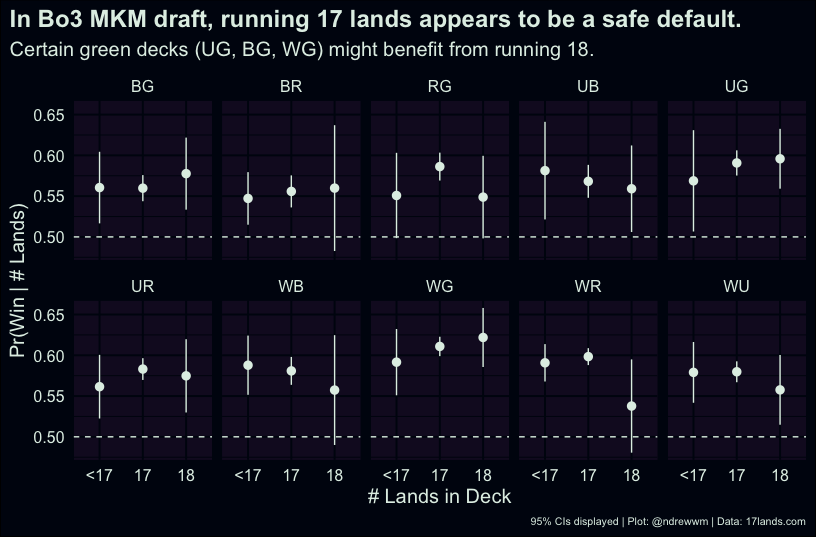
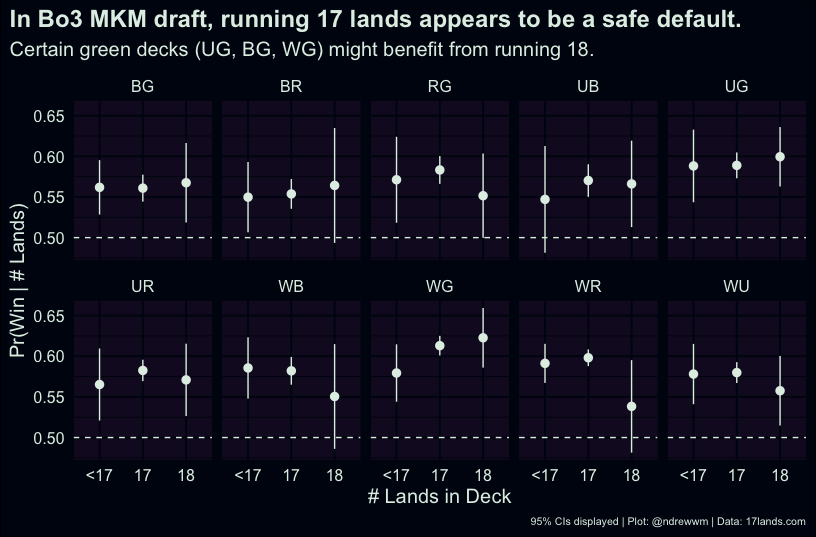
Update, we missed one of the cards used by the analysis

diff --git a/src/routes/blog/post/mkm-nlands/+page.md b/src/routes/blog/post/mkm-nlands/+page.md
@@ -53,30 +53,34 @@ highest rate of success. This is also the most common choice by far
 
 | \# Lands     |         Losses |           Wins |
 |:-------------|---------------:|---------------:|
-| 16 (or less) |  6,415 (43.1%) |  8,453 (56.9%) |
-| 17           | 41,710 (41.7%) | 58,204 (58.3%) |
-| 18           |  4,993 (42.3%) |  6,802 (57.7%) |
-| Overall      | 53,118 (42.0%) | 73,459 (58.0%) |
+| 16 (or less) |  6,485 (42.6%) |  8,752 (57.4%) |
+| 17           | 41,708 (41.8%) | 58,057 (58.2%) |
+| 18           |  4,909 (42.6%) |  6,625 (57.4%) |
+| Overall      | 53,102 (42.0%) | 73,434 (58.0%) |
 
 Breaking apart the decks by colorpair, we see some hints that green
 decks might benefit from running 18. (Note, I’m excluding monocolor and
 3+ color decks, but I’m not breaking out splashes.) Interestingly, it
-looks like only WB and UB are the only pairs benefit from running 16
-lands. I’ve heard anecdotes that UB is best played as a tempo deck
-(rather than a slow, controlling deck), and this seems to line up with
-what’s visible in the plot.
+looks like only WB benefits from running 16 lands. Every red deck in the
+format gives up a lot of consistency (if not raw win %) for cutting
+lands.
 
 ![](./+page_files/unnamed-chunk-4-1.png)
 
-It also feels notable that WR doesn’t seem to improve (on average) by
-cutting lands. Given its popularity, I haven’t been able to draft this
+It seems particularly notable that WR doesn’t seem to improve (on
+average) by cutting lands. You might expect that it could afford to do
+so, given its access to the best 1-drops in the format, such as *Novice
+Inspector*. However, *Novice Inspector* itself is instructive, given
+that the benefit it grants you for casting it requires additional mana
+to leverage. Given its popularity, I haven’t been able to draft this
 deck frequently, but this result makes sense to me. In modern limited
 formats, it’s difficult to overstate the importance of impacting the
 board early. However, not playing a land on turn 3 appears to be
 particularly punishing in MKM due to the *disguise* mechanic. Even in
 aggressive decks (like WR), you have to keep pace with your opponent
-along the mana curve. There simply aren’t enough cards that cost 2 mana
-or less to form enough of a core for one’s deck.
+along the mana curve. In terms of what’s realistic for a given draft,
+there simply aren’t enough cards that cost 2 mana or less to form enough
+of a core for one’s deck.
 
 In any case, the decision to run different land counts is complex, but
 running 17 appears to be about as solid of a default as one can rely on.
